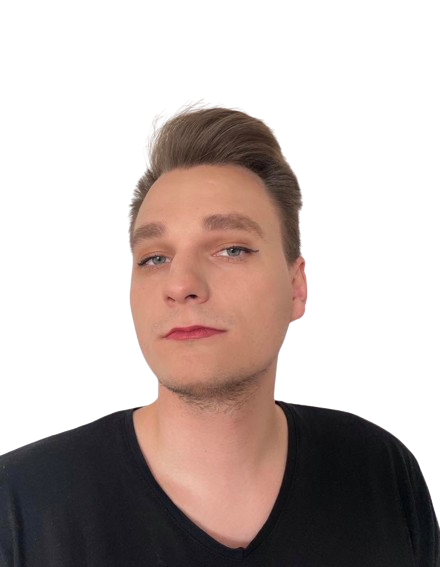
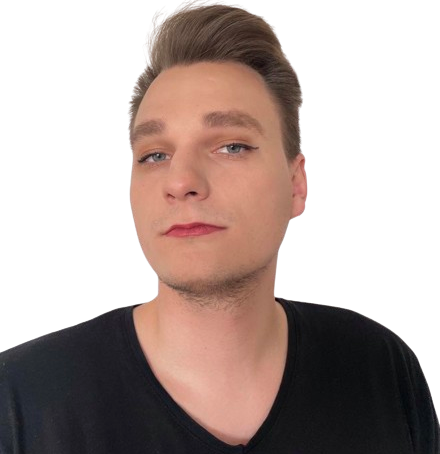
question page style adjustments

diff --git a/components/game/Questions/SelectedQuestion.tsx b/components/game/Questions/SelectedQuestion.tsx
@@ -53,8 +53,8 @@ export const SelectedQuestion = (props: SelectedQuestionProps) => {
     },[gameState])
 
     return (
-        <div className="h-full flex flex-col bg-questions-selected gap-5">
-            <div className="flex flex-row basis-2/5 justify-between items-center m-5">
+        <div className="p-10 h-full flex flex-col justify-center bg-questions-selected gap-5">
+            <div className="flex flex-row basis-1/2 gap-10 justify-between items-center m-5">
                 <div className="h-full basis-1/2 flex flex-row justify-center items-center">
                     <QuestionGameStatus 
                         onTimerEvent={(newState : QuestionGameState) => {setGameState(newState)}}
@@ -62,14 +62,14 @@ export const SelectedQuestion = (props: SelectedQuestionProps) => {
                         state={gameState} 
                         paused={false}/>
                 </div>
-                <div className="basis-1/2 flex flex-row justify-center align-bottom">
+                <div className="h-full w-full basis-1/2 flex flex-row justify-center align-bottom">
                     <Image 
-                        className="object-contain w-2/5"
+                        className="object-cover scale-110"
                         alt="Picture of the author"
                         src={profilePic}/>
                 </div>
             </div>
-            <div className="flex flex-row basis-2/5 mt-20 m-10 gap-5">
+            <div className="flex flex-row basis-1/2 gap-5">
                 <div className="flex flex-col gap-10 w-full">
                     <div className="basis-1/2">
                         <div className="p-5 flex h-full text-5xl text-center bg-gradient-to-tr from-orange-300 via-black via-0% to-cyan-700 justify-center items-center text-white border rounded-lg">
